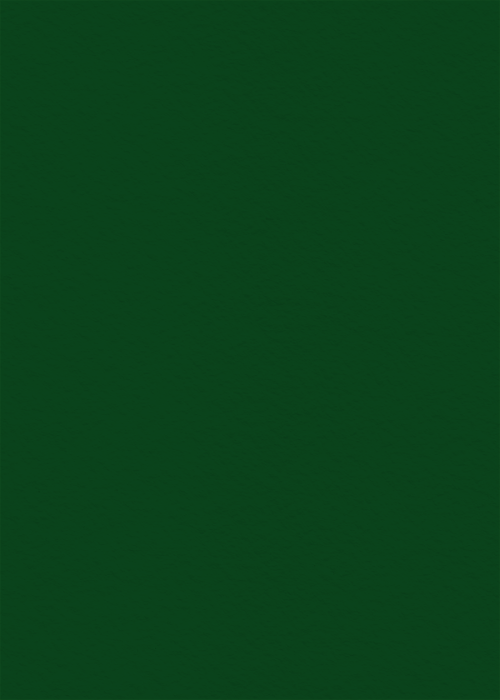
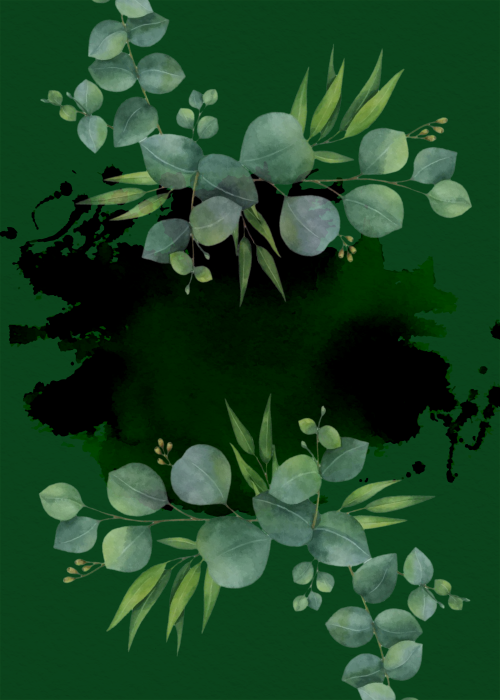
update: Works Ui 카드 디자인 수정

diff --git a/src/features/works/ProjectItem.jsx b/src/features/works/ProjectItem.jsx
@@ -8,35 +8,22 @@ const StyledProjectItem = styled.div`
   justify-content: center;
   width: 24vw;
   height: 35vw;
+  max-width: 450px;
+  max-height: 650px;
   background-image: ${(props) => (props.theme === 'green' ? 'url(greenBackground.png)' : 'url(whiteBackground.png)')};
-  border: 1px solid var(--active);
-  border-radius: 1rem;
+  background-position: center;
+  background-size: cover;
+  background-repeat: no-repeat;
+  box-shadow: 10px 10px 10px rgba(34, 34, 34, 0.5);
   margin-top: ${(props) => props.theme === 'white' && '5rem'};
   cursor: pointer;
 
   &::before {
     content: '';
     position: absolute;
-    display: block;
-    width: 100%;
-    height: 100%;
-    background-image: ${(props) => (props.theme === 'white' ? 'url(greenBorder.png)' : 'url(whiteBorder.png)')};
-    background-repeat: no-repeat;
-    background-size: 26% 18%;
-    background-position: top 2% right 2%;
-  }
-
-  &::after {
-    content: '';
-    position: absolute;
-    display: block;
-    width: 100%;
-    height: 100%;
-    background-image: ${(props) => (props.theme === 'white' ? 'url(greenBorder.png)' : 'url(whiteBorder.png)')};
-    background-repeat: no-repeat;
-    background-size: 26% 18%;
-    background-position: top 2% right 2%;
-    transform: rotate(180deg);
+    width: 95%;
+    height: 95%;
+    border: 1px solid ${(props) => (props.theme === 'white' ? 'var(--active)' : 'var(--white)')};
   }
 `
 
@@ -45,38 +32,31 @@ const Title = styled.div`
   align-items: center;
   justify-content: center;
   font-family: 'Bodoni Moda', sans-serif;
-  font-size: 4.5rem;
-  line-height: 2;
-  width: 100%;
+  font-size: 3vw;
+  line-height: 1.7;
+  width: 80%;
   color: ${(props) => (props.theme === 'green' ? 'var(--active)' : 'var(--white)')};
-  border-top: 1px solid ${(props) => (props.theme === 'white' ? 'var(--active)' : 'var(--white)')};
-  border-bottom: 1px solid ${(props) => (props.theme === 'white' ? 'var(--active)' : 'var(--white)')};
-  background-image: ${(props) => (props.theme === 'white' ? 'url(greenBackground.png)' : 'url(whiteBackground.png)')};
+  background-color: ${(props) => (props.theme === 'white' ? ' rgba(21, 71, 13, 0.3)' : 'rgba(238, 234, 228, 0.3)')};
+  z-index: 1;
 
   &::before {
     content: '';
     position: absolute;
-    display: block;
-    height: 24vw;
-    width: 35vw;
-    background-image: ${(props) => (props.theme === 'white' ? 'url(greenBorder.png)' : 'url(whiteBorder.png)')};
-    background-repeat: no-repeat;
-    background-size: 18% 26%;
-    background-position: top 2% right 2%;
-    transform: rotate(-90deg);
+    width: 85%;
+    height: 20%;
+    background-color: ${(props) => (props.theme === 'white' ? 'var(--active)' : 'var(--white)')};
+    opacity: 0.5;
+    z-index: -1;
   }
 
   &::after {
     content: '';
     position: absolute;
-    display: block;
-    height: 24vw;
-    width: 35vw;
-    background-image: ${(props) => (props.theme === 'white' ? 'url(greenBorder.png)' : 'url(whiteBorder.png)')};
-    background-repeat: no-repeat;
-    background-size: 18% 26%;
-    background-position: top 2% right 2%;
-    transform: rotate(90deg);
+    width: 90%;
+    height: 25%;
+    background-color: ${(props) => (props.theme === 'white' ? 'var(--active)' : 'var(--white)')};
+    opacity: 0.2;
+    z-index: -2;
   }
 `
 
